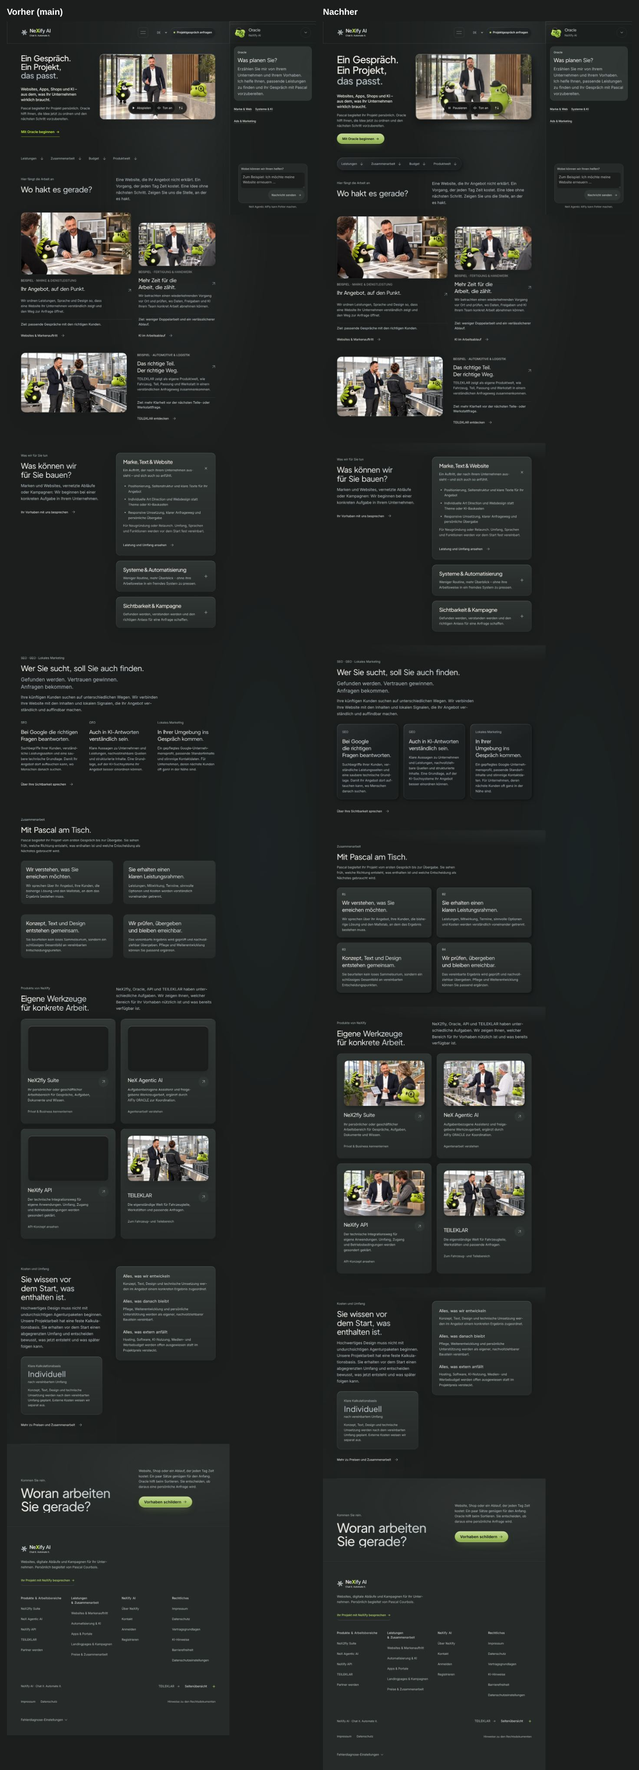
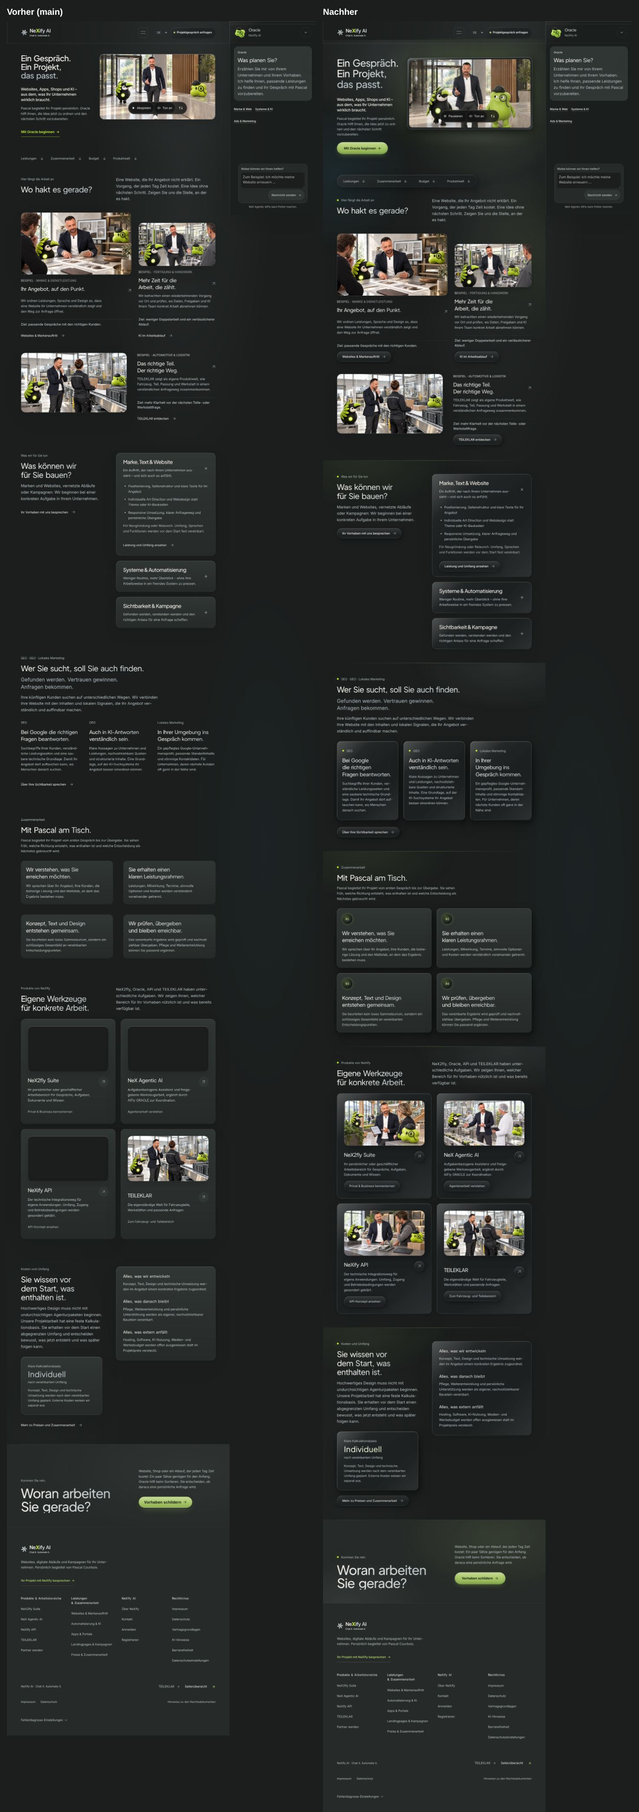
startseite: zweite Fassung mit sichtbarem Licht, 3D-Film, Glas-Schaltern und Einblenden
Film als geneigte Glasscheibe mit Reflex und Bodenlicht, Lichtfelder als Kulisse,
Zeigerlicht und Neigung auf Glaskarten, plastische Schalter mit fuenf Zustaenden,
gestaffeltes Einblenden. HomeEffects.tsx setzt nur CSS-Variablen; Reduced Motion schaltet ab.
Chat, Texte, Kennzeichnungen und Tokens unveraendert. Abweichung von aelteren
Zurueckhaltungsregeln ist in der Doku benannt.

Claude-Session: https://claude.ai/code/session_01HyncR55anPNdPWQK2PLn7r

diff --git a/apps/web/components/HomeReference.css b/apps/web/components/HomeReference.css
@@ -1,57 +1,104 @@
 /* Referenz Startseite, 13.11.2026. Muster fuer alle Folgeseiten, beschrieben in
-   docs/design/startseite-referenz-2026-11-13.md. Nur Werte aus config/design-tokens.json.
-   Reihenfolge: nach HomeConcept.css geladen; gleiche Selektortiefe, damit nichts mit !important erzwungen wird. */
+   docs/design/startseite-referenz-2026-11-13.md. Farben und Schatten nur aus config/design-tokens.json
+   (als Variable oder als Mischung daraus). Nach HomeConcept.css geladen. HomeEffects.tsx setzt nur
+   die Variablen --glow-x/-y und --tilt-x/-y sowie data-fx und .is-in. */
+.workspace-shell .home-concept{--fx-turn:calc(var(--material-film-turn) * 12);--fx-lift:calc(-1 * var(--space-1));--fx-reveal:calc(var(--control-loading-duration) * .7);--fx-glow:radial-gradient(calc(var(--space-9) * 3) circle at var(--glow-x,50%) var(--glow-y,0%),color-mix(in srgb,var(--color-marke-lime) 16%,transparent),color-mix(in srgb,var(--color-atelier-platinum) 6%,transparent) 42%,transparent 70%);position:relative;isolation:isolate;overflow-x:clip}
 
-/* R1 Typografie: Hauptueberschrift nie unter dem Token-Minimum; Unterlaengen bekommen Platz. */
+/* R10 Kulisse: zwei weiche Lichtfelder (Lime, Silber) ziehen langsam hinter dem Inhalt. */
+.workspace-shell .home-concept::before,.workspace-shell .home-concept::after{content:'';position:absolute;z-index:-1;pointer-events:none;inset:0 0 auto;height:min(100%,calc(var(--space-9) * 14));will-change:transform}
+.workspace-shell .home-concept::before{background:radial-gradient(ellipse 46% 34% at 72% 16%,color-mix(in srgb,var(--color-marke-lime) 13%,transparent),transparent 100%),radial-gradient(ellipse 34% 26% at 8% 46%,color-mix(in srgb,var(--color-marke-cyan) 7%,transparent),transparent 100%);animation:hr-drift var(--motion-laufband) infinite alternate}
+.workspace-shell .home-concept::after{background:radial-gradient(ellipse 40% 26% at 30% 6%,color-mix(in srgb,var(--color-atelier-platinum) 12%,transparent),transparent 100%),radial-gradient(ellipse 36% 30% at 90% 70%,color-mix(in srgb,var(--color-marke-lime) 8%,transparent),transparent 100%);animation:hr-drift var(--motion-laufband) infinite alternate-reverse}
+@keyframes hr-drift{from{transform:translate3d(-3%,-2%,0) scale(1)}to{transform:translate3d(4%,3%,0) scale(1.08)}}
+
+/* R1 Typografie */
 @container identity-hero (min-width:821px){
  .workspace-shell .home-concept .identity-hero .identity-copy h1{font-size:var(--type-hero-size);line-height:var(--type-hero-leading);padding-bottom:var(--space-1)}
 }
+.workspace-shell .home-concept .identity-hero .identity-copy h1 span:not(.identity-title-accent){background:var(--gradient-atelier-heading);-webkit-background-clip:text;background-clip:text;-webkit-text-fill-color:transparent;padding-bottom:.12em;margin-bottom:-.12em}
 
-/* R2 Tiefe/3D: der Film steht als Scheibe im Raum (Token material.film*), darunter liegt Buehnenlicht.
-   Beim Zeigen oder Fokussieren richtet er sich gerade aus. */
+/* R2 Film als Glasscheibe im Raum: Rahmen in zwei Schichten, Neigung, Spiegelung am Boden, Lichtreflex. */
+.workspace-shell .home-concept .identity-hero .identity-media{overflow:visible;box-shadow:none;border-radius:var(--radius-atelier);transform-style:preserve-3d}
+.workspace-shell .home-concept .identity-hero .identity-hero-photo{padding:var(--space-2);border-radius:var(--radius-atelier);overflow:hidden;background:var(--gradient-home-media-rim),var(--gradient-atelier-glass);-webkit-backdrop-filter:blur(var(--material-blur));backdrop-filter:blur(var(--material-blur));border:var(--material-border) solid var(--color-atelier-glass-edge);border-top-color:var(--material-highlight);box-shadow:var(--material-shadow),var(--shadow-atelier-panel-depth),0 0 calc(var(--space-9) * 1.5) calc(-1 * var(--space-6)) color-mix(in srgb,var(--color-marke-lime) 32%,transparent)}
+.workspace-shell .home-concept .identity-hero .identity-hero-photo :is(.atelier-film-hero,.atelier-film-picture,video,img){border-radius:var(--radius-chip)}
+.workspace-shell .home-concept .identity-hero .identity-hero-photo::before{inset:0;z-index:3;opacity:1;background:linear-gradient(105deg,transparent 38%,color-mix(in srgb,var(--color-atelier-ink) 16%,transparent) 48%,color-mix(in srgb,var(--color-marke-lime-hell) 10%,transparent) 52%,transparent 62%);background-size:260% 100%;animation:hr-sweep var(--motion-schimmer) infinite;mix-blend-mode:screen}
+@keyframes hr-sweep{0%,55%{background-position:120% 0}100%{background-position:-60% 0}}
+.workspace-shell .home-concept .identity-hero .identity-media::after{content:'';display:block;position:absolute;inset:auto var(--space-5) calc(-1 * var(--space-8));height:calc(var(--space-9) * 1.4);z-index:-1;pointer-events:none;background:radial-gradient(ellipse 60% 55% at 50% 0%,color-mix(in srgb,var(--color-marke-lime) 22%,transparent),transparent 100%),var(--gradient-atelier-stage);filter:blur(var(--space-3))}
 @container identity-hero (min-width:821px){
- .workspace-shell .home-concept .identity-hero .identity-scene{perspective:var(--material-film-perspective)}
- .workspace-shell .home-concept .identity-hero .identity-media{overflow:visible;box-shadow:none;transform:rotateY(var(--material-film-turn));transform-origin:0 50%;transition:transform var(--motion-feedback)}
- .workspace-shell .home-concept .identity-hero .identity-media:is(:hover,:focus-within){transform:none}
- .workspace-shell .home-concept .identity-hero .identity-media::after{content:'';display:block;position:absolute;inset:auto var(--space-6) calc(-1 * var(--space-7));height:var(--space-9);z-index:-1;pointer-events:none;background:var(--gradient-atelier-stage)}
- .workspace-shell .home-concept .identity-hero .identity-hero-photo{box-shadow:var(--material-shadow),var(--shadow-atelier-depth)}
+ .workspace-shell .home-concept .identity-hero .identity-scene{perspective:var(--material-film-perspective);grid-template-columns:minmax(0,.82fr) minmax(0,1.618fr);padding-block:var(--space-8) var(--space-9)}
+ .workspace-shell .home-concept .identity-hero .identity-media{transform:rotateY(calc(var(--fx-turn) + var(--tilt-x,0) * 3deg)) rotateX(calc(2deg - var(--tilt-y,0) * 2.5deg)) translateZ(0);transform-origin:50% 50%;transition:transform calc(var(--control-loading-duration) * .5) ease-out;will-change:transform}
+ .workspace-shell .home-concept .identity-hero .identity-media:focus-within{transform:none}
 }
 
-/* R3 Haupthandlung: eine Lime-Schaltflaeche je Ansicht (Regel flaechen.primaerbutton). */
-.workspace-shell .home-concept .identity-copy .identity-primary-link[data-variant='primary']{padding:var(--space-3) var(--space-5);border-radius:var(--radius-pille);border-bottom-color:transparent;color:var(--color-text-auf-lime);font-size:var(--type-home-reading)}
+/* R3 Haupthandlung: plastischer Lime-Schalter mit ziehendem Glanz. */
+.workspace-shell .home-concept :is(.identity-copy .identity-primary-link[data-variant='primary'],.hc-finish-primary){position:relative;overflow:hidden;isolation:isolate;padding:var(--space-3) var(--space-6);min-height:calc(var(--target-min) + var(--space-2));border-radius:var(--radius-pille);border:var(--material-border) solid color-mix(in srgb,var(--color-marke-lime-hell) 70%,transparent);border-bottom-color:var(--color-marke-lime-gruen);background:linear-gradient(180deg,var(--color-marke-lime-hell),var(--color-marke-lime) 46%,var(--color-marke-lime-dunkel));color:var(--color-text-auf-lime);font-size:var(--type-home-reading);box-shadow:inset 0 1px 0 color-mix(in srgb,var(--color-atelier-ink) 55%,transparent),inset 0 calc(-1 * var(--space-1)) var(--space-2) color-mix(in srgb,var(--color-marke-lime-gruen) 55%,transparent),0 var(--space-2) var(--space-5) calc(-1 * var(--space-2)) color-mix(in srgb,var(--color-marke-lime) 55%,transparent),var(--material-shadow-raised);transition:transform var(--motion-feedback),box-shadow var(--motion-feedback),filter var(--motion-feedback)}
+.workspace-shell .home-concept :is(.identity-copy .identity-primary-link[data-variant='primary'],.hc-finish-primary)::after{content:'';position:absolute;inset:0;z-index:-1;pointer-events:none;background:linear-gradient(105deg,transparent 35%,color-mix(in srgb,var(--color-atelier-ink) 60%,transparent) 50%,transparent 65%);background-size:280% 100%;animation:hr-sweep var(--motion-schimmer) infinite}
+.workspace-shell .home-concept :is(.identity-copy .identity-primary-link[data-variant='primary'],.hc-finish-primary):hover{transform:translateY(var(--fx-lift));filter:brightness(1.06);background:linear-gradient(180deg,var(--color-marke-lime-hell),var(--color-marke-lime) 46%,var(--color-marke-lime-dunkel));color:var(--color-text-auf-lime)}
+.workspace-shell .home-concept :is(.identity-copy .identity-primary-link[data-variant='primary'],.hc-finish-primary):active{transform:translateY(var(--material-border));filter:brightness(.96);opacity:1;box-shadow:inset 0 var(--space-1) var(--space-2) color-mix(in srgb,var(--color-marke-lime-gruen) 70%,transparent),var(--shadow-kleine-karte)}
+.workspace-shell .home-concept :is(.identity-copy .identity-primary-link[data-variant='primary'],.hc-finish-primary):focus-visible{outline:var(--control-focus-width) solid var(--color-text-primaer);outline-offset:var(--space-1)}
+.workspace-shell .home-concept :is(.identity-copy .identity-primary-link[data-variant='primary'],.hc-finish-primary):disabled{opacity:var(--control-disabled-opacity);filter:none;transform:none;box-shadow:none}
 
-/* R4 Glasleiste: Sprungmarken als eine Milchglasflaeche (material.blur, material.veil, 1 px Lichtkante). */
-.workspace-shell .home-concept .hc-anchors{position:relative;display:flex;width:fit-content;max-width:calc(100% - 2 * var(--layout-page-padding));margin-inline:var(--layout-page-padding) auto;padding:var(--space-1);gap:var(--space-1);border:var(--material-border) solid var(--color-linie-fein);border-top-color:var(--material-highlight);border-radius:var(--radius-pille);background:var(--gradient-atelier-glass);-webkit-backdrop-filter:blur(var(--material-blur));backdrop-filter:blur(var(--material-blur));box-shadow:var(--material-shadow-raised)}
-.workspace-shell .home-concept .hc-anchors a{padding-inline:var(--space-4);gap:var(--space-3);border-radius:var(--radius-pille);transition:background-color var(--motion-feedback),color var(--motion-feedback)}
-.workspace-shell .home-concept .hc-anchors a:is(:hover,:focus-visible){background:var(--material-veil);color:var(--color-text-primaer)}
+/* R9 Glas-Schalter: Kartenlinks, Sprungmarken, Filmsteuerung, runde Pfeile. Fuenf Zustaende. */
+.workspace-shell .home-concept :is(.hc-text-link,.atelier-film-controls button,.hc-product-arrow){border:var(--material-border) solid var(--color-linie-fein);border-top-color:var(--material-highlight);background:linear-gradient(180deg,var(--material-veil),transparent 70%),var(--color-atelier-glass);box-shadow:var(--material-shadow-raised);transition:transform var(--motion-feedback),box-shadow var(--motion-feedback),background-color var(--motion-feedback),border-color var(--motion-feedback),color var(--motion-feedback)}
+.workspace-shell .home-concept .hc-text-link{padding:0 var(--space-5);border-radius:var(--radius-pille);gap:var(--space-3);font-weight:500;align-self:flex-start;justify-self:start}
+.workspace-shell .home-concept :is(.hc-gallery-card,.hc-product):is(:hover,:focus-visible) .hc-text-link,.workspace-shell .home-concept :is(.hc-text-link,.atelier-film-controls button):is(:hover,:focus-visible){transform:translateY(var(--fx-lift));border-color:color-mix(in srgb,var(--color-marke-lime) 45%,transparent);box-shadow:var(--material-shadow),0 0 var(--space-5) calc(-1 * var(--space-2)) color-mix(in srgb,var(--color-marke-lime) 40%,transparent);color:var(--color-text-primaer)}
+.workspace-shell .home-concept :is(.hc-text-link,.atelier-film-controls button):active{transform:translateY(var(--material-border));box-shadow:var(--shadow-well);opacity:1}
+.workspace-shell .home-concept :is(.hc-text-link,.atelier-film-controls button):disabled{opacity:var(--control-disabled-opacity);transform:none;box-shadow:none}
+.workspace-shell .home-concept .atelier-film-controls{-webkit-backdrop-filter:blur(var(--material-blur));backdrop-filter:blur(var(--material-blur));border:var(--material-border) solid var(--color-atelier-film-control-edge);box-shadow:var(--material-shadow)}
+
+/* R4 Glasleiste */
+.workspace-shell .home-concept .hc-anchors{position:relative;display:flex;width:fit-content;max-width:calc(100% - 2 * var(--layout-page-padding));margin-inline:var(--layout-page-padding) auto;padding:var(--space-1);gap:var(--space-1);border:var(--material-border) solid var(--color-linie-fein);border-top-color:var(--material-highlight);border-radius:var(--radius-pille);background:var(--gradient-atelier-glass);-webkit-backdrop-filter:blur(var(--material-blur));backdrop-filter:blur(var(--material-blur));box-shadow:var(--material-shadow);overflow:hidden}
+.workspace-shell .home-concept .hc-anchors a{position:relative;z-index:1;padding-inline:var(--space-5);gap:var(--space-3);border-radius:var(--radius-pille);border:var(--material-border) solid transparent;transition:background-color var(--motion-feedback),color var(--motion-feedback),border-color var(--motion-feedback),transform var(--motion-feedback)}
+.workspace-shell .home-concept .hc-anchors a:is(:hover,:focus-visible){background:var(--material-veil);border-color:var(--material-highlight);color:var(--color-text-primaer)}
+.workspace-shell .home-concept .hc-anchors a:active{transform:translateY(var(--material-border));background:var(--color-atelier-canvas)}
+.workspace-shell .home-concept .hc-anchors a:hover .hc-arrow{transform:translateY(2px);color:var(--color-marke-lime)}
 @container home (max-width:640px){
  .workspace-shell .home-concept .hc-anchors{width:auto;display:grid;grid-template-columns:repeat(2,minmax(0,1fr));border-radius:var(--radius-atelier);margin-inline:var(--layout-page-padding)}
  .workspace-shell .home-concept .hc-anchors a{justify-content:space-between;padding-inline:var(--space-3);gap:var(--space-2);border-radius:var(--radius-karte);text-wrap:nowrap}
 }
 @container home (max-width:360px){.workspace-shell .home-concept .hc-anchors{grid-template-columns:minmax(0,1fr)}}
 
-/* R5 Abschnittsrhythmus: feine Lichtlinie und Lichtfleck statt Kasten. */
+/* R5 Abschnittsrhythmus: Lichtlinie mit Lime-Kern und Lichtfeld, je Abschnitt auf wechselnder Seite. */
 .workspace-shell .home-concept .hc-section{position:relative;isolation:isolate}
-.workspace-shell .home-concept .hc-section:not(.hc-finish)::before{content:'';position:absolute;inset:0 var(--layout-page-padding) auto;height:var(--material-border);background:var(--material-section-divider)}
-.workspace-shell .home-concept .hc-section:not(.hc-finish)::after{content:'';position:absolute;inset:0 0 auto;height:var(--space-9);z-index:-1;pointer-events:none;background:var(--material-section-glow)}
+.workspace-shell .home-concept .hc-section:not(.hc-finish)::before{content:'';position:absolute;inset:0 var(--layout-page-padding) auto;height:var(--material-border);background:linear-gradient(90deg,transparent,color-mix(in srgb,var(--color-atelier-platinum) 28%,transparent) 30%,color-mix(in srgb,var(--color-marke-lime) 55%,transparent) 50%,color-mix(in srgb,var(--color-atelier-platinum) 28%,transparent) 70%,transparent)}
+.workspace-shell .home-concept .hc-section:not(.hc-finish)::after{content:'';position:absolute;inset:0 0 auto;height:calc(var(--space-9) * 4);z-index:-1;pointer-events:none;background:radial-gradient(ellipse 42% 60% at 18% 0%,color-mix(in srgb,var(--color-marke-lime) 9%,transparent),transparent 100%)}
+.workspace-shell .home-concept .hc-section:nth-of-type(even):not(.hc-finish)::after{background:radial-gradient(ellipse 42% 60% at 82% 0%,color-mix(in srgb,var(--color-atelier-platinum) 11%,transparent),transparent 100%)}
+.workspace-shell .home-concept .hc-finish{background:radial-gradient(ellipse 60% 90% at 78% 20%,color-mix(in srgb,var(--color-marke-lime) 12%,transparent),transparent 76%),radial-gradient(ellipse 50% 70% at 10% 100%,color-mix(in srgb,var(--color-atelier-platinum) 9%,transparent),transparent 76%),var(--color-atelier-surface)}
 
-/* R6 Bildkarten: Bild als gerahmte Scheibe; Rueckmeldung ueber Schatten und Lichtkante, nicht ueber Farbe. */
-.workspace-shell .home-concept :is(.hc-art,.hc-product-art){box-shadow:var(--material-shadow-raised);transition:box-shadow var(--motion-feedback),transform var(--motion-feedback)}
-.workspace-shell .home-concept :is(.hc-art,.hc-product-art) img{transition:transform var(--motion-feedback)}
-.workspace-shell .home-concept :is(.hc-gallery-card,.hc-product):is(:hover,:focus-visible) :is(.hc-art,.hc-product-art){box-shadow:var(--material-shadow);transform:translateY(calc(-1 * var(--space-1)))}
-.workspace-shell .home-concept :is(.hc-art,.hc-product-art)::after{content:'';position:absolute;inset:0;pointer-events:none;border-radius:inherit;background:var(--gradient-atelier-reflection);opacity:.1}
+/* R6 Bildscheiben: Glasrahmen, Reflex, Neigung zum Zeiger. */
+.workspace-shell .home-concept :is(.hc-gallery-card,.hc-products){perspective:var(--material-film-perspective)}
+.workspace-shell .home-concept :is(.hc-art,.hc-product-art){box-shadow:var(--material-shadow);border-color:var(--color-atelier-glass-edge);border-top-color:var(--material-highlight);transition:box-shadow var(--motion-feedback),transform calc(var(--control-loading-duration) * .4) ease-out;will-change:transform}
+.workspace-shell .home-concept :is(.hc-art,.hc-product-art) img{transition:transform calc(var(--control-loading-duration) * .6) ease-out}
+.workspace-shell .home-concept .hc-gallery-card:is(:hover,:focus-visible) .hc-art{transform:rotateY(calc(var(--tilt-x,0) * 4deg)) rotateX(calc(var(--tilt-y,0) * -4deg)) translateY(var(--fx-lift));box-shadow:var(--material-shadow),0 var(--space-6) var(--space-8) calc(-1 * var(--space-5)) color-mix(in srgb,var(--color-marke-lime) 26%,transparent)}
+.workspace-shell .home-concept :is(.hc-gallery-card,.hc-product):is(:hover,:focus-visible) :is(.hc-art,.hc-product-art) img{transform:scale(1.04)}
+.workspace-shell .home-concept :is(.hc-art,.hc-product-art)::after{content:'';position:absolute;inset:0;pointer-events:none;border-radius:inherit;background:var(--fx-glow),var(--gradient-atelier-reflection);opacity:.22;transition:opacity var(--motion-feedback);mix-blend-mode:screen}
+.workspace-shell .home-concept :is(.hc-gallery-card,.hc-product):hover :is(.hc-art,.hc-product-art)::after{opacity:.5}
 
-/* R7 Glaskarten fuer gleichrangige Aussagen (Sichtbarkeit, Ablauf). */
+/* R7 Glaskarten in Schichten; R11 Lichtpunkt folgt dem Zeiger. */
+.workspace-shell .home-concept :is(.hc-visibility-grid,.hc-process ol,.hc-service-list){perspective:var(--material-film-perspective)}
 .workspace-shell .home-concept .hc-visibility-grid{gap:var(--space-5)}
-.workspace-shell .home-concept :is(.hc-visibility-grid article,.hc-process li){padding:var(--space-5);border:var(--material-border) solid var(--color-linie-fein);border-top-color:var(--material-highlight);border-radius:var(--radius-atelier);background:var(--gradient-atelier-glass);-webkit-backdrop-filter:blur(var(--material-blur));backdrop-filter:blur(var(--material-blur));box-shadow:var(--material-shadow-raised)}
 .workspace-shell .home-concept .hc-process ol{gap:var(--space-5);counter-reset:hc-step}
+.workspace-shell .home-concept :is(.hc-visibility-grid article,.hc-process li,.hc-service-detail,.hc-product,.hc-costs,.hc-rate){position:relative;isolation:isolate;overflow:hidden;border:var(--material-border) solid var(--color-linie-fein);border-top-color:var(--material-highlight);border-left-color:var(--color-atelier-glass-edge);border-radius:var(--radius-atelier);background:var(--gradient-atelier-panel-facet),var(--gradient-atelier-glass);-webkit-backdrop-filter:blur(var(--material-blur));backdrop-filter:blur(var(--material-blur));box-shadow:var(--material-shadow),var(--shadow-atelier-panel-depth);transition:box-shadow var(--motion-feedback),border-color var(--motion-feedback),transform calc(var(--control-loading-duration) * .4) ease-out}
+.workspace-shell .home-concept :is(.hc-visibility-grid article,.hc-process li){padding:var(--space-6) var(--space-5)}
+.workspace-shell .home-concept :is(.hc-visibility-grid article,.hc-process li,.hc-service-detail,.hc-product,.hc-costs,.hc-rate)::after{content:'';position:absolute;inset:0;z-index:-1;pointer-events:none;border-radius:inherit;background:var(--fx-glow);opacity:0;transition:opacity var(--motion-feedback)}
+.workspace-shell .home-concept :is(.hc-visibility-grid article,.hc-process li,.hc-service-detail,.hc-product,.hc-costs,.hc-rate):is(:hover,:focus-within)::after{opacity:1}
+.workspace-shell .home-concept :is(.hc-visibility-grid article,.hc-process li,.hc-service-detail,.hc-product,.hc-costs,.hc-rate):is(:hover,:focus-within){border-color:color-mix(in srgb,var(--color-marke-lime) 34%,transparent);border-top-color:color-mix(in srgb,var(--color-marke-lime-hell) 60%,transparent);box-shadow:var(--material-shadow),var(--shadow-atelier-panel-depth),0 var(--space-6) var(--space-8) calc(-1 * var(--space-6)) color-mix(in srgb,var(--color-marke-lime) 30%,transparent)}
+.workspace-shell .home-concept :is(.hc-visibility-grid article,.hc-process li,.hc-product):hover{transform:rotateY(calc(var(--tilt-x,0) * 2deg)) rotateX(calc(var(--tilt-y,0) * -2deg)) translateY(var(--fx-lift))}
 .workspace-shell .home-concept .hc-process li{counter-increment:hc-step}
-.workspace-shell .home-concept .hc-process li::before{content:counter(hc-step,decimal-leading-zero);display:block;margin-bottom:var(--space-4);color:var(--color-atelier-champagne);font:500 var(--type-small-size)/1 var(--font-mono)}
+.workspace-shell .home-concept .hc-process li::before{content:counter(hc-step,decimal-leading-zero);display:grid;place-items:center;width:var(--target-min);height:var(--target-min);margin-bottom:var(--space-5);border-radius:var(--radius-pille);border:var(--material-border) solid color-mix(in srgb,var(--color-marke-lime) 45%,transparent);background:radial-gradient(circle at 30% 25%,color-mix(in srgb,var(--color-marke-lime) 30%,transparent),transparent 70%),var(--color-atelier-canvas);box-shadow:var(--shadow-well),0 0 var(--space-4) calc(-1 * var(--space-1)) color-mix(in srgb,var(--color-marke-lime) 45%,transparent);color:var(--color-marke-lime-hell);font:500 var(--type-small-size)/1 var(--font-mono)}
+.workspace-shell .home-concept .hc-anchors::after{content:'';position:absolute;inset:0;pointer-events:none;background:var(--fx-glow);opacity:0;transition:opacity var(--motion-feedback)}
+.workspace-shell .home-concept .hc-anchors:hover::after{opacity:1}
+.workspace-shell .home-concept .hc-rate>strong{background:linear-gradient(120deg,var(--color-atelier-ink),var(--color-marke-lime-hell));-webkit-background-clip:text;background-clip:text;-webkit-text-fill-color:transparent;padding-bottom:.1em}
+.workspace-shell .home-concept .hc-kicker{display:flex;align-items:center;gap:var(--space-3)}
+.workspace-shell .home-concept .hc-kicker::before{content:'';flex:none;width:var(--space-2);height:var(--space-2);border-radius:var(--radius-pille);background:var(--color-marke-lime-signal);box-shadow:var(--shadow-leuchten)}
 
-/* R8 Karten mit Inhalt heben sich beim Zeigen leicht (Zustand, keine Dekoration). */
-.workspace-shell .home-concept :is(.hc-service-detail,.hc-product){transition:box-shadow var(--motion-feedback),border-color var(--motion-feedback)}
-.workspace-shell .home-concept :is(.hc-service-detail,.hc-product):is(:hover,:focus-within){box-shadow:var(--material-shadow);border-top-color:var(--color-atelier-glass-edge)}
+/* R12 Einblenden beim Scrollen. Nur wenn HomeEffects laeuft; ohne Skript ist alles sichtbar. */
+.workspace-shell .home-concept[data-fx='on'] :is(.hc-intro,.hc-gallery-card,.hc-section-heading,.hc-service-detail,.hc-visibility-grid article,.hc-process li,.hc-product,.hc-costs,.hc-rate,.hc-finish-heading,.hc-finish-next):not(.is-in){opacity:0;transform:translateY(var(--space-6))}
+.workspace-shell .home-concept[data-fx='on'] :is(.hc-intro,.hc-gallery-card,.hc-section-heading,.hc-service-detail,.hc-visibility-grid article,.hc-process li,.hc-product,.hc-costs,.hc-rate,.hc-finish-heading,.hc-finish-next){transition:opacity var(--fx-reveal) ease-out,transform var(--fx-reveal) ease-out,box-shadow var(--motion-feedback),border-color var(--motion-feedback)}
+.workspace-shell .home-concept[data-fx='on'] :is(.hc-gallery-card,.hc-visibility-grid article,.hc-process li,.hc-product,.hc-service-detail):nth-child(2){transition-delay:calc(var(--control-loading-duration) * .08)}
+.workspace-shell .home-concept[data-fx='on'] :is(.hc-gallery-card,.hc-visibility-grid article,.hc-process li,.hc-product,.hc-service-detail):nth-child(3){transition-delay:calc(var(--control-loading-duration) * .16)}
+.workspace-shell .home-concept[data-fx='on'] :is(.hc-process li,.hc-product):nth-child(4){transition-delay:calc(var(--control-loading-duration) * .24)}
+.workspace-shell .home-concept[data-fx='on'] :is(.hc-visibility-grid article,.hc-process li,.hc-product).is-in:hover{transition-delay:0s}
 
-@media(prefers-reduced-transparency:reduce){.workspace-shell .home-concept :is(.hc-anchors,.hc-visibility-grid article,.hc-process li){-webkit-backdrop-filter:none;backdrop-filter:none;background:var(--color-atelier-surface)}}
-@media(prefers-contrast:more),(forced-colors:active){.workspace-shell .home-concept :is(.hc-anchors,.hc-visibility-grid article,.hc-process li){box-shadow:none;border-color:var(--color-text-sekundaer);background:var(--gradient-karte)}}
-@media(prefers-reduced-motion:reduce){.workspace-shell .home-concept .identity-hero .identity-media{transform:none;transition:none}}
+@media(prefers-reduced-transparency:reduce){.workspace-shell .home-concept :is(.hc-anchors,.hc-visibility-grid article,.hc-process li,.hc-service-detail,.hc-product,.hc-costs,.hc-rate,.identity-hero-photo,.atelier-film-controls){-webkit-backdrop-filter:none;backdrop-filter:none;background:var(--color-atelier-surface)}}
+@media(prefers-contrast:more),(forced-colors:active){.workspace-shell .home-concept :is(.hc-anchors,.hc-visibility-grid article,.hc-process li,.hc-text-link){box-shadow:none;border-color:var(--color-text-sekundaer);background:var(--gradient-karte)}.workspace-shell .home-concept::before,.workspace-shell .home-concept::after{display:none}}
+@media(prefers-reduced-motion:reduce){.workspace-shell .home-concept::before,.workspace-shell .home-concept::after,.workspace-shell .home-concept .identity-hero-photo::before{animation:none}.workspace-shell .home-concept .identity-hero .identity-media{transform:none;transition:none}}

diff --git a/apps/web/components/HomeEffects.tsx b/apps/web/components/HomeEffects.tsx
@@ -1,0 +1,46 @@
+"use client";
+import {useEffect} from "react";
+
+const LIT = ".hc-anchors,.hc-service-detail,.hc-product,.hc-visibility-grid article,.hc-process li,.hc-costs,.hc-rate,.identity-hero-photo,.hc-art";
+const TILT = ".identity-media,.hc-art,.hc-product,.hc-visibility-grid article,.hc-process li";
+const REVEAL = ".hc-intro,.hc-gallery-card,.hc-section-heading,.hc-service-detail,.hc-visibility-grid article,.hc-process li,.hc-product,.hc-costs,.hc-rate,.hc-finish-heading,.hc-finish-next";
+
+/**
+ * Light and depth for the home page (docs/design/startseite-referenz-2026-11-13.md, R9 to R11).
+ * Writes CSS variables only; every visible value lives in HomeReference.css.
+ * Nothing runs under reduced motion; without script the page shows complete and still.
+ */
+export default function HomeEffects() {
+  useEffect(() => {
+    const root = document.querySelector<HTMLElement>(".home-concept");
+    if (!root || window.matchMedia("(prefers-reduced-motion: reduce)").matches) return;
+    root.dataset.fx = "on";
+
+    const seen = new IntersectionObserver(entries => {
+      for (const entry of entries) if (entry.isIntersecting) { entry.target.classList.add("is-in"); seen.unobserve(entry.target); }
+    }, {rootMargin: "0px 0px -8% 0px", threshold: 0.08});
+    root.querySelectorAll(REVEAL).forEach(node => seen.observe(node));
+
+    if (!window.matchMedia("(hover: hover) and (pointer: fine)").matches) return () => { seen.disconnect(); delete root.dataset.fx; };
+
+    let frame = 0, last: PointerEvent | null = null, tilted: HTMLElement | null = null;
+    const apply = () => {
+      frame = 0;
+      const event = last, target = event?.target;
+      if (!event || !(target instanceof Element)) return;
+      const lit = target.closest<HTMLElement>(LIT);
+      if (lit) { const box = lit.getBoundingClientRect(); lit.style.setProperty("--glow-x", `${event.clientX - box.left}px`); lit.style.setProperty("--glow-y", `${event.clientY - box.top}px`); }
+      const hero = target.closest(".identity-scene");
+      const tilt = hero ? hero.querySelector<HTMLElement>(".identity-media") : target.closest<HTMLElement>(TILT);
+      if (tilted && tilted !== tilt) { tilted.style.removeProperty("--tilt-x"); tilted.style.removeProperty("--tilt-y"); }
+      tilted = tilt;
+      if (tilt) { const box = (hero ?? tilt).getBoundingClientRect(); tilt.style.setProperty("--tilt-x", ((event.clientX - box.left) / box.width * 2 - 1).toFixed(3)); tilt.style.setProperty("--tilt-y", ((event.clientY - box.top) / box.height * 2 - 1).toFixed(3)); }
+    };
+    const move = (event: PointerEvent) => { last = event; if (!frame) frame = requestAnimationFrame(apply); };
+    const leave = () => { if (tilted) { tilted.style.removeProperty("--tilt-x"); tilted.style.removeProperty("--tilt-y"); tilted = null; } };
+    root.addEventListener("pointermove", move, {passive: true});
+    root.addEventListener("pointerleave", leave);
+    return () => { seen.disconnect(); cancelAnimationFrame(frame); root.removeEventListener("pointermove", move); root.removeEventListener("pointerleave", leave); delete root.dataset.fx; };
+  }, []);
+  return null;
+}

diff --git a/apps/web/components/HomeContent.tsx b/apps/web/components/HomeContent.tsx
@@ -10,6 +10,7 @@ import copy from '../../../config/home-concept-copy.json';
 import {brandImages,pageImage,imageAlt,srcSetFor} from '../lib/brand-media';
 import './HomeConcept.css';
 import './HomeReference.css';
+import HomeEffects from './HomeEffects';
 
 // Home previews and their detail pages share one verified image assignment.
 const galleryArt=[brandImages.design,brandImages.automation,brandImages.logistics];
@@ -33,6 +34,7 @@ export default function HomeContent({home,video,moduleVideos,children,pages}:{ho
  const {locale}=useUI(),t=copy[locale];
  void moduleVideos;void children;void pages;
  return <div className="home-concept" data-testid="home-content">
+  <HomeEffects/>
   <IdentityHero locale={locale} page={home} video={video}/>
   <nav className="hc-anchors hc-container" aria-label={t.introKicker}>{t.anchor.map((label,i)=><a key={label} href={['#leistungen','#zusammenarbeit','#budget','#produktwelt'][i]}>{label}<DetailArrow direction="down"/></a>)}</nav>
   <section className="hc-intro hc-container" aria-labelledby="hc-intro-title">

diff --git a/docs/design/startseite-referenz-2026-11-13.md b/docs/design/startseite-referenz-2026-11-13.md
@@ -8,34 +8,60 @@ der die übrigen Seiten nachgezogen werden.
 
 ## Umfang
 
-- Neu: `apps/web/components/HomeReference.css` (nach `HomeConcept.css` geladen).
-- Geändert: `HomeContent.tsx` (eine Importzeile), `IdentityHero.tsx` (Haupthandlung als
+- Neu: `apps/web/components/HomeReference.css` (nach `HomeConcept.css` geladen) und
+  `apps/web/components/HomeEffects.tsx` (setzt nur CSS-Variablen und Klassen, keine Stile).
+- Geändert: `HomeContent.tsx` (zwei Importe, eine Zeile), `IdentityHero.tsx` (Haupthandlung als
   Schaltfläche statt Textlink).
 - **Nicht angefasst:** Chat-Spalte und Chat-Dateien (eigene Session, Zweig
   `claude/chat-ki-gefuehrt`), Kopf- und Fußleiste, Texte, Rechtstexte, Preise, Medien, Tokens.
-- Aufbau, Reihenfolge der Abschnitte und Spaltenverhältnisse sind unverändert.
+- Aufbau und Reihenfolge der Abschnitte sind unverändert.
+
+## Zwei Fassungen
+
+Die erste Fassung (Commits `5d909db`, `8d697ac`) hielt sich an die zurückhaltenden Regeln der
+älteren Dokumente und wurde als zu unauffällig zurückgewiesen (Rückmeldung des Inhabers,
+weitergegeben über die übergeordnete Session: „Wo sind die Lichteffekte“). Die zweite Fassung
+setzt Licht, Tiefe und Schalter sichtbar um.
+
+**Bewusster Widerspruch zu älteren Vorgaben**, zugunsten des Auftrags vom 13.11.2026:
+
+| Ältere Vorgabe | Quelle | Jetzt |
+|---|---|---|
+| „Motion ist Zustand/Feedback, nicht Deko“ | `design_guidelines.md` §5.3 | Lichtfelder ziehen langsam, Glanz läuft über Film und Schaltfläche, Abschnitte blenden ein |
+| „Keine Neon-Glows“, Lime nie als Fläche | `design_guidelines.md` §3.2, Token `marke.limeSignal` | Lime als weiches Licht (höchstens 32 % Deckung in Schatten und Lichtfeldern); keine Lime-Flächen außer der Haupt-Schaltfläche |
+| „Hairlines statt Schatten“, keine gestapelten Schatten | `design_guidelines.md` §11.2 | Glasflächen tragen gerichteten Schatten und Tiefenschatten übereinander |
+| Aufgesetzte Effekte abgelehnt | `nexify-creative-experience-2026-11-09.md` | Zeigerlicht und Neigung auf Karten |
+
+Der Inhaber sollte an der Vorschau entscheiden, ob das Maß stimmt; alles ist in einer Datei
+regelbar (Variablen `--fx-turn`, `--fx-glow`, `--fx-reveal`).
+
+**Tokens:** Es wurden keine neuen Tokens angelegt. Farben und Schatten kommen aus
+`config/design-tokens.json`, teils als Mischung (`color-mix`) daraus. Nicht als Token vorhanden
+und deshalb im Stylesheet gesetzt: Neigungswinkel (aus `material.filmTurn` × 12 = 6°, plus
+2–4° Zeigerneigung), Deckungen der Lichtfelder, Dauer des Einblendens (0,7 s). Wenn die Fassung
+bleibt, gehören diese Werte als Tokens nachgetragen.
 
 ## Muster (gelten für alle Folgeseiten)
 
-Alle Werte kommen aus `config/design-tokens.json`; im Stylesheet steht kein Farbwert.
-
 | Nr. | Muster | Tokens | Wo auf der Startseite |
 |---|---|---|---|
-| R1 | Hauptüberschrift nie unter dem Minimum; Platz für Unterlängen | `typeHero.size`, `typeHero.leading` | Hero (ab 821 px Spaltenbreite): 45,6 px statt 37 px bei 1440 px |
-| R2 | Film als Scheibe im Raum: leichte Drehung mit Perspektive, Bühnenlicht darunter, gerichteter Schatten nach rechts unten; richtet sich beim Zeigen oder Fokussieren gerade aus | `material.filmTurn`, `material.filmPerspective`, `gradient.atelierStage`, `material.shadow`, `shadow.atelierDepth` | Hero-Film |
-| R3 | Genau eine Lime-Schaltfläche je Ansicht für die Haupthandlung, 48 px hoch | `gradient.buttonPrimaer`, `shadow.buttonPrimaer`, `target.min` | „Mit Oracle beginnen“ |
-| R4 | Glasleiste: Milchglas mit 20 px Unschärfe, 1 px Lichtkante oben, Pillenform; mobil als 2-spaltiges Feld | `material.blur`, `material.veil`, `material.highlight`, `gradient.atelierGlass`, `material.shadowRaised` | Sprungmarken unter dem Hero |
-| R5 | Abschnitte trennen sich durch eine feine Lichtlinie und einen Lichtfleck, nicht durch Kästen | `material.sectionDivider`, `material.sectionGlow` | alle Abschnitte außer dem Schluss |
-| R6 | Bilder als gerahmte Scheiben mit Reflex; beim Zeigen hebt sich das Bild um 4 px und der Schatten wird tiefer | `material.shadowRaised`, `material.shadow`, `gradient.atelierReflection`, `motion.feedback` | drei Szenenkarten, vier Produktkarten |
-| R7 | Gleichrangige Aussagen als Glaskarten; Schritte mit Zähler in Geist Mono | wie R4, `font.mono`, `radius.atelier` | „Sichtbarkeit“, „Zusammenarbeit“ |
-| R8 | Inhaltskarten reagieren mit Schatten und Lichtkante, nicht mit Farbe | `material.shadow`, `color.atelier.glassEdge` | Leistungs- und Produktkarten |
+| R1 | Hauptüberschrift nie unter dem Minimum, Silberverlauf mit Platz für Unterlängen | `typeHero.size`, `gradient.atelierHeading` | Hero: 45,6 px statt 37 px bei 1440 px |
+| R2 | Film als Glasscheibe im Raum: Glasrahmen in zwei Schichten, 6° Neigung mit Perspektive, Lime-Schein und Spiegelung am Boden, Lichtreflex zieht alle 7 s über das Glas, Scheibe folgt dem Zeiger | `material.film*`, `gradient.homeMediaRim`, `gradient.atelierGlass`, `shadow.atelierPanelDepth`, `motion.schimmer` | Hero-Film, 585 px breit (vorher 537) |
+| R3 | Haupthandlung als plastischer Lime-Schalter: Verlauf, Lichtkante, Innenschatten, ziehender Glanz; hebt sich beim Zeigen, senkt sich beim Drücken | `marke.lime*`, `material.shadowRaised`, `motion.schimmer` | „Mit Oracle beginnen“, „Vorhaben schildern“ |
+| R4 | Glasleiste mit Zeigerlicht | `material.blur`, `material.veil`, `material.highlight` | Sprungmarken |
+| R5 | Abschnitte: Lichtlinie mit Lime-Kern, Lichtfeld abwechselnd links (Lime) und rechts (Silber) | `marke.lime`, `atelier.platinum` | alle Abschnitte |
+| R6 | Bildscheiben mit Glasrahmen und Reflex; neigen sich zum Zeiger, Bild zoomt 4 % | `material.shadow`, `gradient.atelierReflection` | Szenen- und Produktbilder |
+| R7 | Glaskarten in Schichten mit Facette; Schrittzähler als runde, leuchtende Marke | `gradient.atelierPanelFacet`, `shadow.well`, `font.mono` | Leistungen, Sichtbarkeit, Zusammenarbeit, Produkte, Kosten |
+| R9 | Glas-Schalter mit fünf Zuständen (Ruhe, Zeigen, Drücken, Fokus, deaktiviert), mindestens 48 px | `material.*`, `shadow.well`, `control.*` | Kartenlinks, Sprungmarken, Filmsteuerung |
+| R10 | Kulisse: zwei Lichtfelder (Lime, Silber) ziehen in 46 s hin und her | `motion.laufband`, `marke.lime`, `marke.cyan`, `atelier.platinum` | hinter der ganzen Seite |
+| R11 | Lichtpunkt folgt dem Zeiger über Glasflächen | Variable `--fx-glow` | alle Glaskarten |
+| R12 | Abschnitte und Karten blenden beim Scrollen ein, gestaffelt | Variable `--fx-reveal` | ganze Seite |
 
-Bewegung ist nur Rückmeldung (180 ms). Es gibt bewusst keine Einblend- oder Scroll-Animation:
-`design_guidelines.md` §5.3 („Motion ist Zustand/Feedback, nicht Deko“) und die Entscheidung
-gegen aufgesetzte Effekte in `nexify-creative-experience-2026-11-09.md`.
+Technik: Bewegung nur über `transform`, `opacity` und `background-position`; Zeigerwerte werden
+einmal je Bild gesetzt (`requestAnimationFrame`). Ohne Skript ist die Seite vollständig sichtbar.
 
-Barrierefreiheit: `prefers-reduced-motion` schaltet Drehung und Übergänge ab;
-`prefers-reduced-transparency` und `prefers-contrast` ersetzen Glas durch eine deckende Fläche.
+Barrierefreiheit: Bei `prefers-reduced-motion` startet `HomeEffects` nicht und alle Animationen
+stehen; `prefers-reduced-transparency` und `prefers-contrast` ersetzen Glas durch deckende Flächen.
 
 ### Für die Chat-Session
 
@@ -52,8 +78,8 @@ begrenzt und greifen nicht in die Chat-Spalte.
 | `tests.test_identity_hero`, `tests.test_public_surface_contract`, `tests.test_static_preview` | 17 Tests, alle bestanden |
 | 1440 px und 390 px: horizontaler Überlauf | 0 px |
 | Bedienziele auf der Startseite unter 44 px | keine |
-| Film 1440 px | 542 × 307 px, 3D-Transformation aktiv; mobil ohne Drehung |
-| Elemente mit Glas (`backdrop-filter`) in der Startseite | 11 (vorher 5 auf der ganzen Seite samt Chat) |
+| Film 1440 px | 585 px breit, 3D-Neigung aktiv; mobil ohne Neigung |
+| Einblenden | nach Durchscrollen kein verborgenes Element; ohne Skript alles sichtbar (Regel greift nur mit `data-fx`) |
 | Tastatur: Tab durch die ersten 12 Ziele | jedes mit sichtbarem Rahmen, 2 px |
 | Reduced Motion | keine Drehung, Übergänge 0 s |
 | NL, FR, EN je 1440 und 390 px; DE zusätzlich 320, 768, 1024 px | kein Überlauf, keine Bedienziele unter 44 px, keine abgeschnittenen Beschriftungen (320 px: Sprungmarken einspaltig) |
@@ -65,7 +91,7 @@ vier Produktbilder nur, weil die Aufnahme sie nicht nachgeladen hatte; das ist k
 Bekannte Grenze: Bei 1024 × 768 px (Chat-Spalte offen, Hero einspaltig) liegt die Schaltfläche
 unter der ersten Ansicht; bei 390 × 844 und 768 × 1024 px ist sie sichtbar.
 
-**Nicht geprüft:** Safari, Firefox, echte Geräte, Kontrast über dem Film und über Glas mit
+**Nicht geprüft:** Bildrate der Effekte (keine Messung, nur Bauweise), Ladezeit des Kopfes, Safari, Firefox, echte Geräte, Kontrast über dem Film und über Glas mit
 durchscheinendem Hintergrund (nur gerechnet, nicht gemessen), Screenreader, `make check`,
 vollständige Testsuite. GitHub Actions laufen nicht.
 
